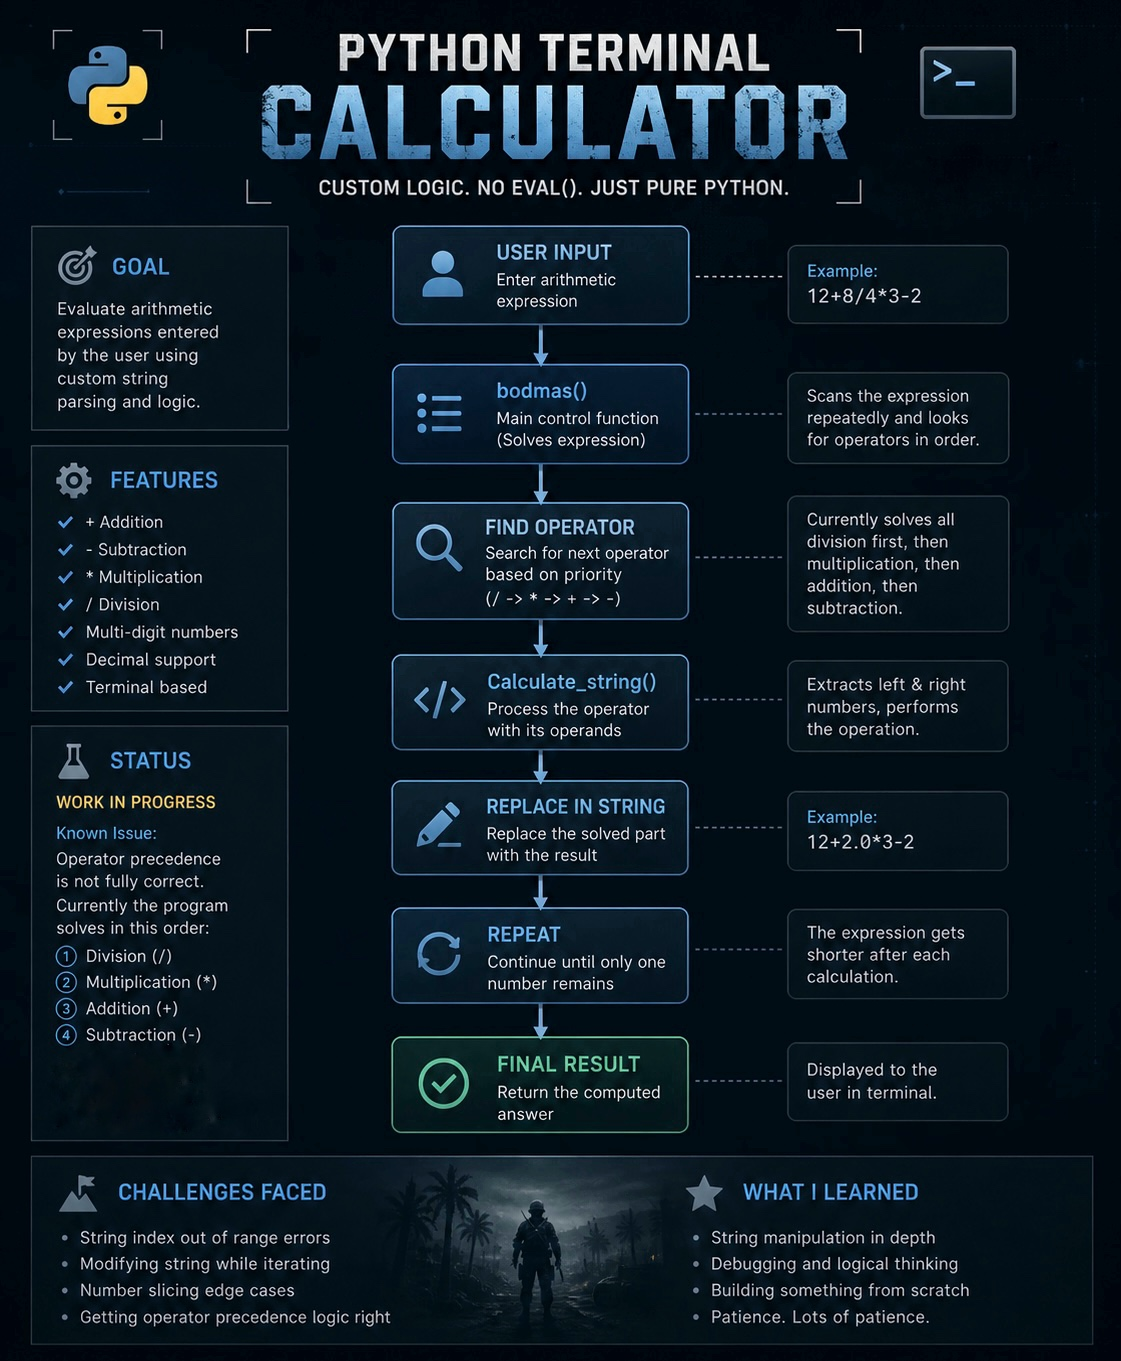
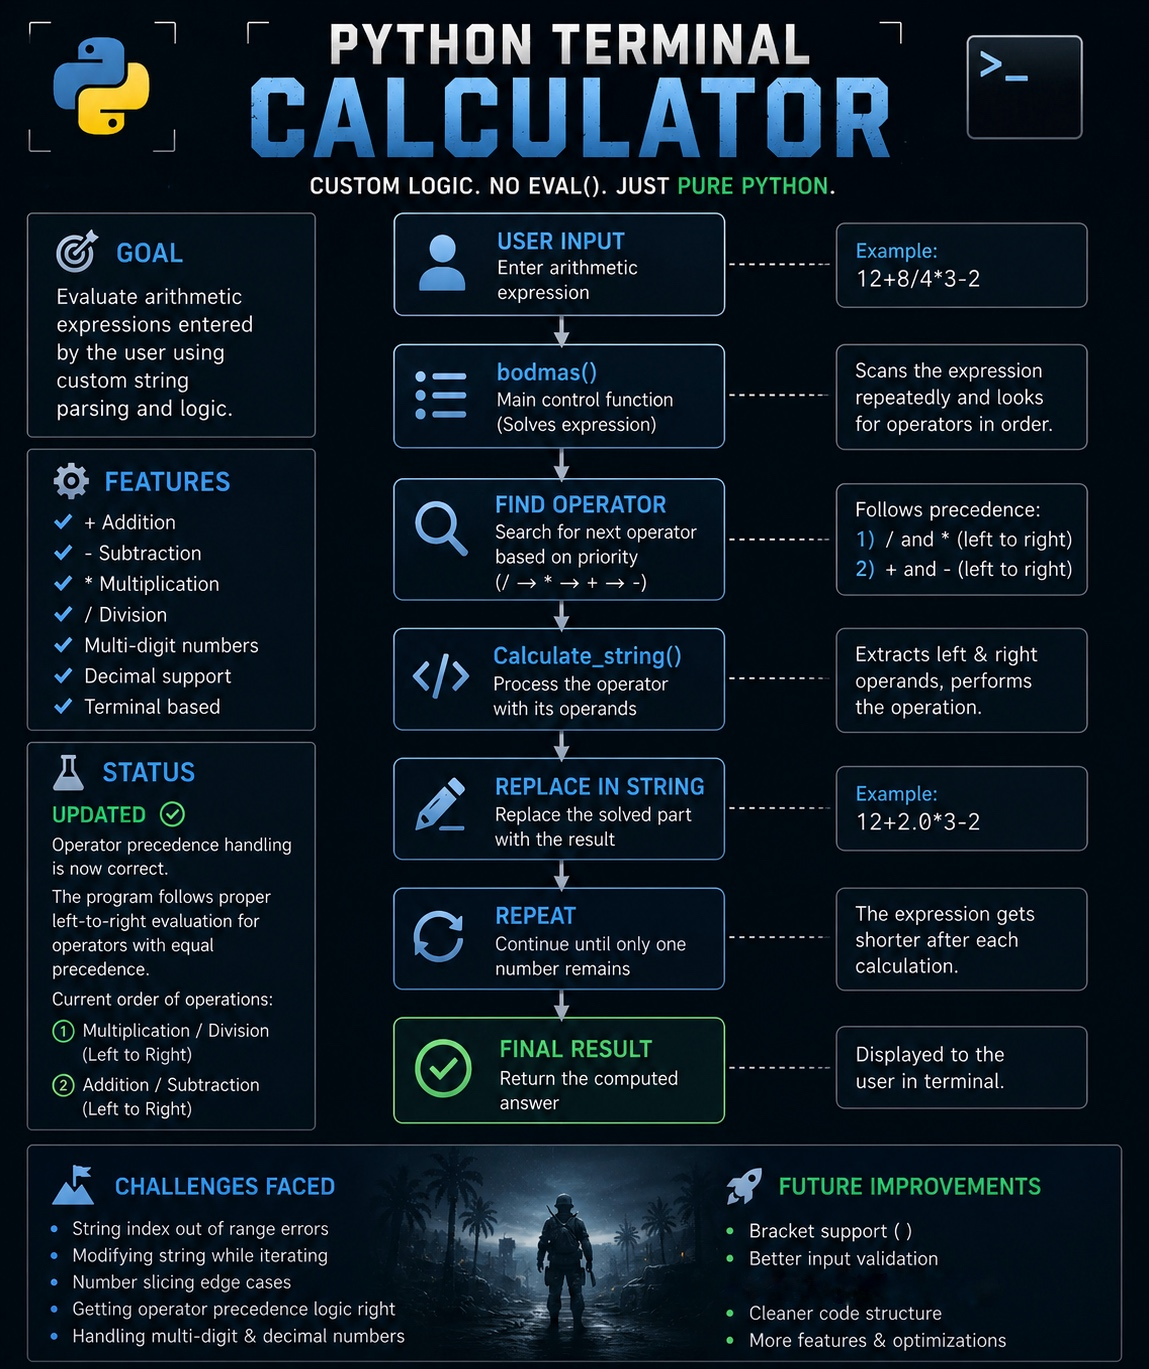
Precedence error fixed

diff --git a/TerminalCalc.py b/TerminalCalc.py
@@ -78,12 +78,11 @@ def Calculate_string ( nobracket_str , oi ):  #oi = operator index
 def bodmas (nobracket_str):
     
     i=0
-    j=0
     k=0
-    p=0
-    while(i<len(nobracket_str)): #This will remove all the division operators '/' after solving them 
 
-        if (nobracket_str[i] == '/') :
+    while(i<len(nobracket_str)): #This will remove all the division'/' and multiplication'*' operators after solving them 
+
+        if (nobracket_str[i] == '/' or nobracket_str[i] == '*') :
 
             nobracket_str = Calculate_string(nobracket_str , i)
             
@@ -91,35 +90,15 @@ def bodmas (nobracket_str):
 
         i+=1
 
-    while(j<len(nobracket_str)): #This will remove all the multiplication operators '*' after solving them
+    while(k<len(nobracket_str)): #This will remove all the addition'+' and subtraction'-' operators after solving them
 
-        if (nobracket_str[j] == '*') :
-
-            nobracket_str = Calculate_string(nobracket_str , j)
-            
-            j=0
-
-        j+=1
-    
-    while(k<len(nobracket_str)): #This will remove all the addition operators '+' after solving them
-
-        if (nobracket_str[k] == '+') :
+        if (nobracket_str[k] == '+' or nobracket_str[k] == '-') :
 
             nobracket_str = Calculate_string(nobracket_str , k)
             
             k=0
 
         k+=1
-    
-    while(p<len(nobracket_str)): #This will remove all the subtraction operators '-' after solving them
-
-        if (nobracket_str[p] == '-') :
-
-            nobracket_str = Calculate_string(nobracket_str , p)
-            
-            p=0
-        
-        p+=1
     
 
     return nobracket_str

diff --git a/README.md b/README.md
@@ -1,15 +1,24 @@
-# Python Terminal Calculator (Work in Progress)
+# Python Terminal Calculator
 
 A terminal-based calculator built from scratch in Python that evaluates arithmetic expressions using custom string parsing logic.
 
 This project does **not** use `eval()` or external libraries for calculations.  
 Instead, it manually scans operators, extracts numbers, performs operations, and rebuilds the expression step-by-step.
 
-<img width="1121" height="1361" src="images\working explanation of Terminal Calculator.PNG" />
+<img width="1149" height="1369" src="images\working explanation of Terminal Calculator.PNG" />
 
 
+## Latest Update (v1.1)
 
-## Current Status
+### Changes
+- Fixed operator precedence handling
+- Corrected left-to-right evaluation logic
+- Improved expression parsing behavior
+- Added cleaner output examples
+
+---
+
+## Current features
 
 ✅ Supports:
 
@@ -20,52 +29,6 @@ Instead, it manually scans operators, extracts numbers, performs operations, and
 - Multi-digit numbers
 - Decimal outputs
 - Sequential expression solving
-
-⚠ Known Issues :
-
-Operator precedence and left-to-right evaluation are currently being improved.
-
-The current implementation processes operators in fixed groups:
-- All division first
-- Then multiplication
-- Then addition
-- Then subtraction
-
-This causes incorrect results because real arithmetic follows:
-- Same precedence operators (*, /) evaluated left-to-right
-- Same precedence operators (+, -) evaluated left-to-right
-
-### Example 1:
-
-Expression:
-
-7882/57/9*393/7/8-8+8-20
-
-
-Current Output: 71.82
-
-Expected Output: 87.82
-
-<img width="1586" height="572" src="images\precedence_error1.png" />
-
-
-
-### Example 2:
-
-Expression:
-
-7/3+5*2-3+6
-
-
-Current Output: 3.33333333333
-
-Expected Output: 15.3333333333
-
-<img width="1086" height="437" src="images\precedence_error2.png" />
-
-
-
-This fix is currently in progress.
 
 ---
 
@@ -114,10 +77,8 @@ then later:
 
 This function repeatedly scans the string and solves operators in this order:
 
-- `/`
-- `*`
-- `+`
-- `-`
+- `/` or `*`
+- `+` or `-`
 
 Each solved operation shortens the string until only one result remains.
 
@@ -125,23 +86,26 @@ Each solved operation shortens the string until only one result remains.
 
 ## Challenges Solved During Development
 
+- Precedence handling for /,* and +,- operators
 - String index out of range errors
 - Loop issues while modifying string length
 - Number slicing edge cases
 - Rebuilding updated expressions dynamically
 
+## Development Notes
+
+One major challenge during development was correctly implementing operator precedence and left-to-right evaluation for operators with equal precedence.
+
 ---
 
 ## Example Run
 
-```bash
-Enter the operation here :- 10+5*2
+Expression to be evaluated : 7882/57/9*393/7/8-8+8-20
 
-Output:
-20
-```
+<img width="1105" height="280" src="images\Correct Output - From TerminalCalc.png" />
+
+
 ##  Future Improvements
-- Correct left-to-right precedence for * and /
 - Bracket support ()
 - Better input validation
 - Cleaner code structure
